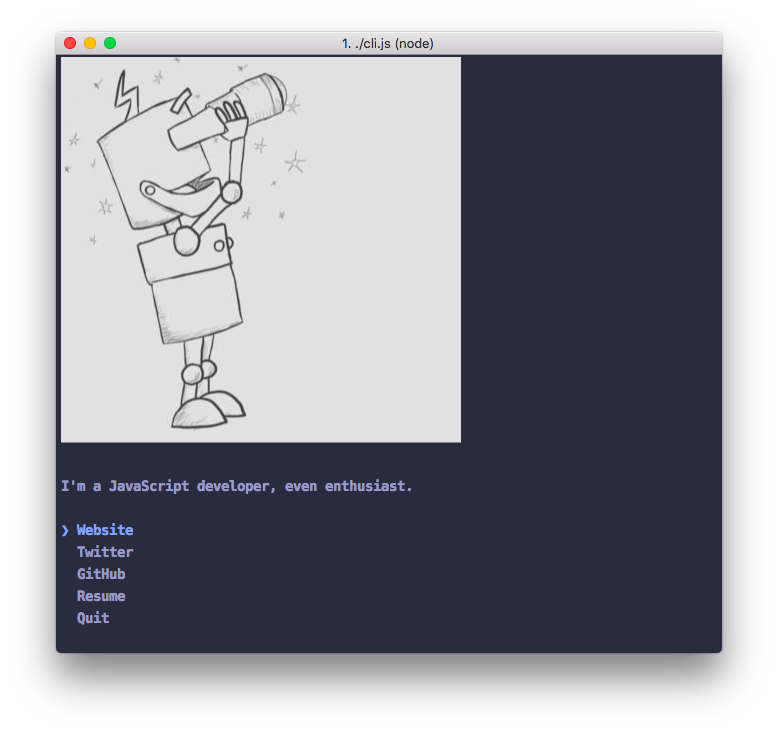
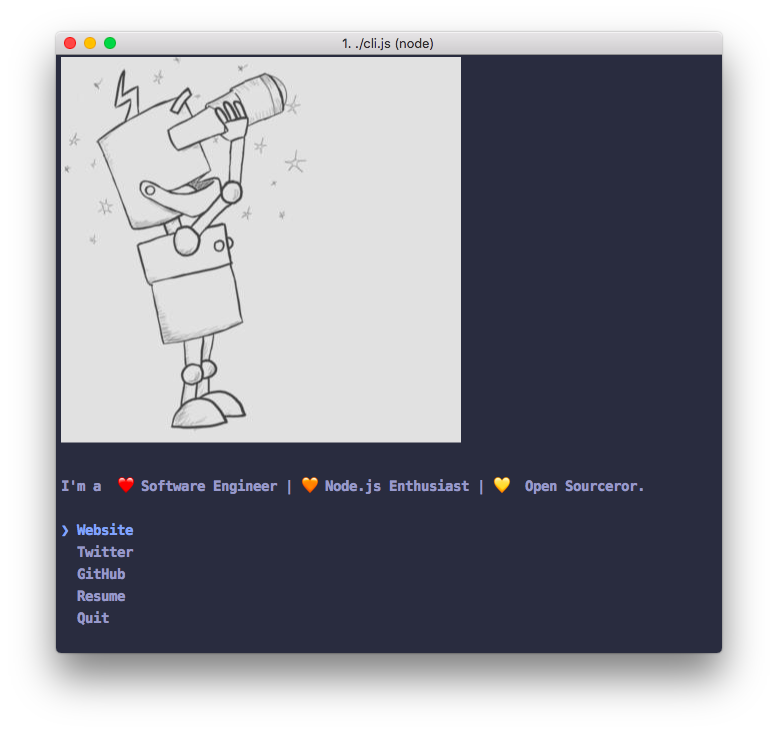
:rose: support multi terminal

Changed region(s): [[0.1234, 0.6303, 0.6478, 0.6903], [0.6787, 0.6603, 0.8329, 0.6903]]

diff --git a/cli.js b/cli.js
@@ -4,6 +4,7 @@
 const path = require('path')
 const meow = require('meow')
 const termImg = require('term-img')
+const terminalImage = require('terminal-image');
 const importJsx = require('import-jsx')
 const { h, render } = require('ink')
 
@@ -14,6 +15,11 @@ meow(`
     $ zyszys
 `)
 
-termImg(path.join(__dirname, 'avatar.jpeg'))
+const fallback = async () => {
+  const image = await terminalImage.file(path.join(__dirname, 'avatar.jpeg'));
+  console.log(image);
+}
+
+termImg(path.join(__dirname, 'avatar.jpeg'), { fallback })
 
 render(h(ui))

diff --git a/ui.js b/ui.js
@@ -45,7 +45,7 @@ module.exports = () => (
   <div>
     <br />
     <div>
-      <Text>I'm a ❤  Software Engineer | 🧡  Node.js Enthusiast | 💛 Open Sourceror.</Text>
+      <Text>I'm a  ❤  Software Engineer | 🧡  Node.js Enthusiast | 💛  Open Sourceror.</Text>
     </div>
     <br />
     <SelectInput items={items} onSelect={handleSelect} />
